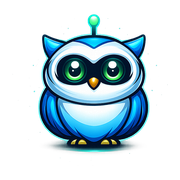
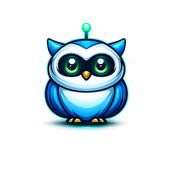
fixes

diff --git a/components/dashboard/PlatformShell.tsx b/components/dashboard/PlatformShell.tsx
@@ -128,7 +128,9 @@ export function PlatformShell({ children }: { children: React.ReactNode }) {
     >
       <div
         className={`mx-auto w-full max-w-[1800px] px-3 pt-4 sm:px-4 md:px-6 md:pt-6 lg:px-8 ${
-          isAdvisorRoute ? 'flex h-full min-h-0 flex-col pb-3 md:pb-4' : 'pb-28 sm:pb-32 md:pb-6'
+          isAdvisorRoute
+            ? 'flex h-full min-h-0 flex-col pb-[calc(env(safe-area-inset-bottom)+6.5rem)] md:pb-4'
+            : 'pb-28 sm:pb-32 md:pb-6'
         }`}
       >
         <header className="sticky top-3 z-40 rounded-[1.75rem] border border-slate-800/90 bg-slate-950/75 px-3 py-3 shadow-[0_12px_42px_rgba(2,6,23,0.55)] backdrop-blur-xl sm:px-4 md:top-4 md:rounded-[2rem]">

diff --git a/app/layout.tsx b/app/layout.tsx
@@ -6,9 +6,12 @@ export const metadata: Metadata = {
   title: 'BurryAI',
   description: 'AI-Powered Student Finance Management',
   icons: {
-    icon: '/burryaiLogo.png',
-    apple: '/burryaiLogo.png',
-    shortcut: '/burryaiLogo.png'
+    icon: [
+      { url: '/favicon.ico' },
+      { url: '/favicon-512.png', sizes: '512x512', type: 'image/png' }
+    ],
+    apple: [{ url: '/apple-touch-icon.png', sizes: '180x180', type: 'image/png' }],
+    shortcut: '/favicon.ico'
   }
 }
 
